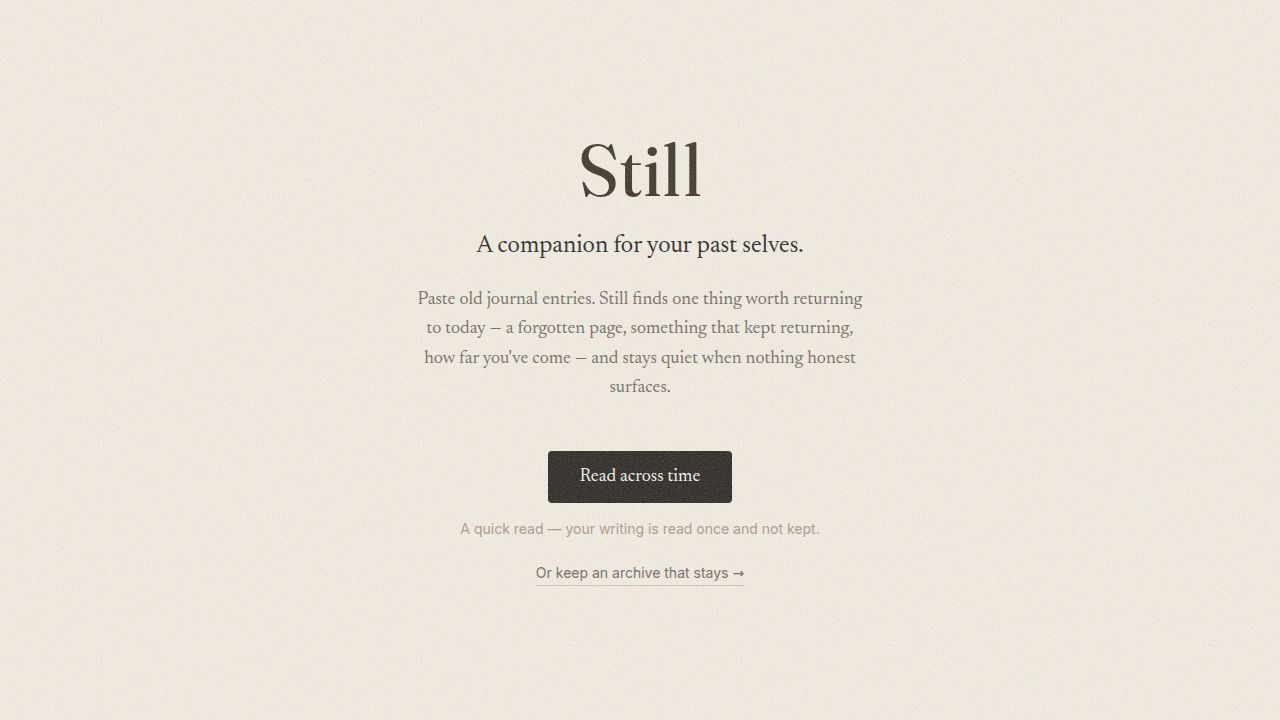
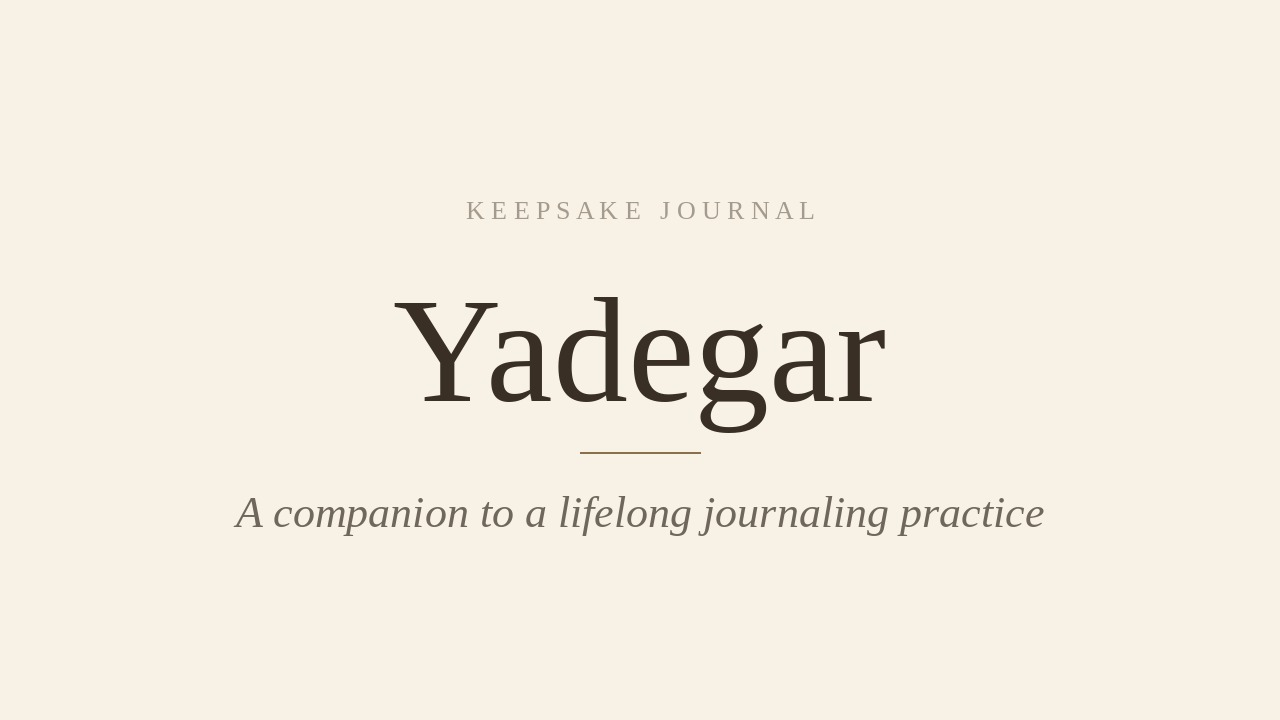
Replace the stale "Still" OG image with a Yadegar one + wire og:image
The social-preview image still showed the old "Still" prototype branding and
"read once and not kept" positioning (the opposite of the launched, archive-
keeping Yadegar) — and it wasn't even referenced (no og:image tag, so no
preview was served). Regenerated it on-brand (cream #F7F1E6, deep-brown serif
"Yadegar", "keepsake journal" eyebrow, the live tagline) at 1280x720, and added
og:image / twitter:image / og:url / dimensions so shared links get a real card.

https://claude.ai/code/session_01Mwd5bztHUQiFeo39Aqyaxa

diff --git a/artifacts/still/index.html b/artifacts/still/index.html
@@ -9,9 +9,15 @@
     <meta property="og:title" content="Yadegar" />
     <meta property="og:description" content="A companion to a lifelong journaling practice — it brings back one page worth returning to, in your own words." />
     <meta property="og:type" content="website" />
+    <meta property="og:url" content="https://yadegarjournal.com" />
+    <meta property="og:image" content="https://yadegarjournal.com/opengraph.jpg" />
+    <meta property="og:image:width" content="1280" />
+    <meta property="og:image:height" content="720" />
+    <meta property="og:image:alt" content="Yadegar — a companion to a lifelong journaling practice" />
     <meta name="twitter:card" content="summary_large_image" />
     <meta name="twitter:title" content="Yadegar" />
     <meta name="twitter:description" content="A companion to a lifelong journaling practice — it brings back one page worth returning to, in your own words." />
+    <meta name="twitter:image" content="https://yadegarjournal.com/opengraph.jpg" />
     <link rel="icon" type="image/svg+xml" href="/favicon.svg" />
     <link rel="preconnect" href="https://fonts.googleapis.com">
     <link rel="preconnect" href="https://fonts.gstatic.com" crossorigin>